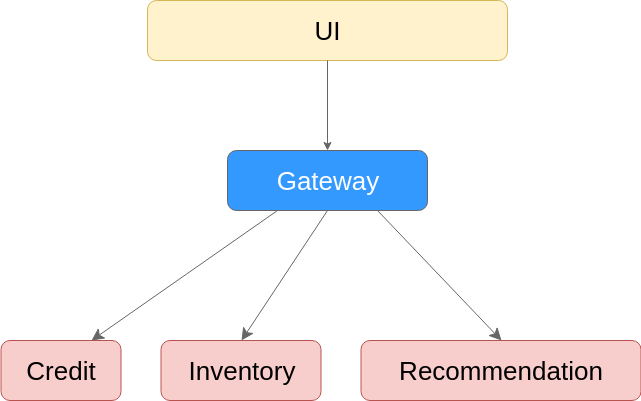
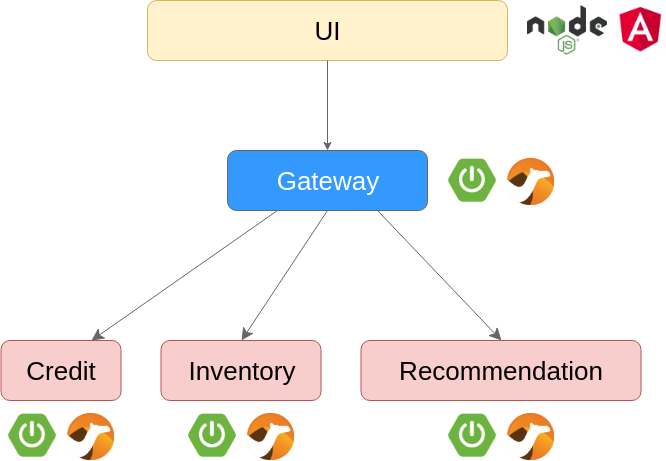
Fix #4

diff --git a/README.md b/README.md
@@ -26,10 +26,12 @@ The system is composed of a Angular 6 UI interface backed by **4** microservices
 ![Plush Shop Architecture](/doc/camel-workshop-architecture.png "Plush Shop Architecture")
 
 The role of each service is:
-- **Recommendation**: a simple recommendation service that provide ratings for the best items;
-- **Credit**: manages how much money is owned by the user(s);
-- **Inventory**: manages items present in stock and movement out of it;
-- **Gateway**: provides uniform access to all other services and orchestrates calls to them.
+- **UI** (Angular 6 on Node.js or any static HTTP server): a graphical user interface that is provided for the workshop and can
+be used to test the full application; 
+- **Recommendation** (Camel on Spring-Boot): a simple recommendation service that provide ratings for the best items;
+- **Credit** (Camel on Spring-Boot): manages how much money is owned by the user(s);
+- **Inventory** (Camel on Spring-Boot): manages items present in stock and movement out of it;
+- **Gateway** (Camel on Spring-Boot): provides uniform access to all other services and orchestrates calls to them.
 
 ## Requirements
 
